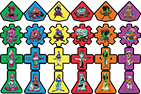
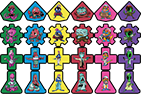
Message Log Crewmembers
- remove duplicate error messages when activating Time Machine.
- updated Crewmember images in message log to new colors.

diff --git a/crashandgrab.game.php b/crashandgrab.game.php
@@ -5932,17 +5932,20 @@ echo("<br>");
 		}
 
 		// Activated means the player has chosen to use it this round.
-		function activateUpgrade($saucerColor, $upgradeName)
+		function activateUpgrade($saucerColor, $upgradeName, $notify=true)
 		{
 				$collectorNumber = $this->convertUpgradeNameToCollectorNumber($upgradeName);
 				$this->activateUpgradeWithCollectorNumber($saucerColor, $collectorNumber);
 				$saucerColorFriendly = $this->convertColorToHighlightedText($saucerColor);
 
-				self::notifyAllPlayers( "activateUpgrade", clienttranslate( '${saucer_color_friendly} activated ${upgrade_name}.' ), array(
-						'saucer_color_friendly' => $saucerColorFriendly,
-						'upgrade_name' => $upgradeName,
-						'color' => $saucerColor
-				) );
+				if($notify)
+				{ // we want to add a note about this in the message log
+					self::notifyAllPlayers( "activateUpgrade", clienttranslate( '${saucer_color_friendly} activated ${upgrade_name}.' ), array(
+							'saucer_color_friendly' => $saucerColorFriendly,
+							'upgrade_name' => $upgradeName,
+							'color' => $saucerColor
+					) );
+				}
 		}
 
 		function activateUpgradeWithCollectorNumber($saucerColor, $collectorNumber)
@@ -11527,7 +11530,7 @@ echo("<br>");
 						$this->saveSaucerMoveCardDirection($saucerWhoseTurnItIs, $direction); // save the direction so we have it in case we are pushed before our turn comes up
 
 						// specify that we have already set the direction this round so we don't ask again
-						$this->activateUpgrade($saucerWhoseTurnItIs, "Time Machine");
+						$this->activateUpgrade($saucerWhoseTurnItIs, "Time Machine", false);
 
 						// set asked_to_activate_this_round to 1 so we don't ask again
 						$this->setAskedToActivateUpgrade($saucerWhoseTurnItIs, "Time Machine");
